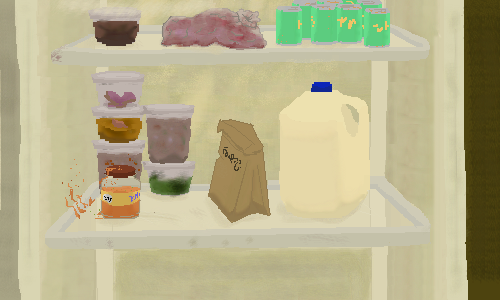
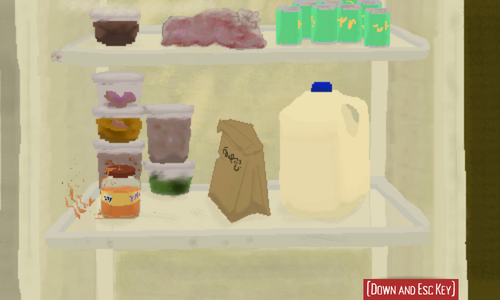
changing triggers, adding exclamation point tile into map, fixing pop up instructions

diff --git a/src/Maps/House1Map.java b/src/Maps/House1Map.java
@@ -65,12 +65,12 @@ public class House1Map extends Map {
         // ExitScript(), "exitInteract" ));
 
         //fridge pop up trigger
-        Point photoLoc = getPositionByTileIndex(24, 16);
+        Point photoLoc = getPositionByTileIndex(24, 15);
         triggers.add(new Trigger(photoLoc.x, photoLoc.y, 100, 10, new PopUpFridgeImageScript(), "popUpButcherImage"));
 
         //  alex pop up image trigger
-        Point photoLoc1 = getPositionByTileIndex(16, 16);
-        triggers.add(new Trigger(photoLoc1.x, photoLoc1.y, 10, 50, new PopUpHouseImageScript(), "popUpHouseImage"));
+        Point photoLoc1 = getPositionByTileIndex(17, 16);
+        triggers.add(new Trigger(photoLoc1.x, photoLoc1.y, 50, 10, new PopUpHouseImageScript(), "popUpHouseImage"));
 
         
         triggers.add(new Trigger(townLoc.x, townLoc.y,200,10, new House1ToTownScript(), "house1ToTown" ));

diff --git a/src/Tilesets/CommonTileset.java b/src/Tilesets/CommonTileset.java
@@ -1500,6 +1500,13 @@ public class CommonTileset extends Tileset {
 
                 mapTiles.add(counter10Tile);*/
 
+                // exclamation point floor frame
+                Frame exclamationFrame = new FrameBuilder(getSubImage(20, 5))
+                                .withScale(tileScale)
+                                .build();
+
+                MapTileBuilder exclamationTile = new MapTileBuilder(exclamationFrame);
+                mapTiles.add(exclamationTile);
                 return mapTiles;
         }
 }
